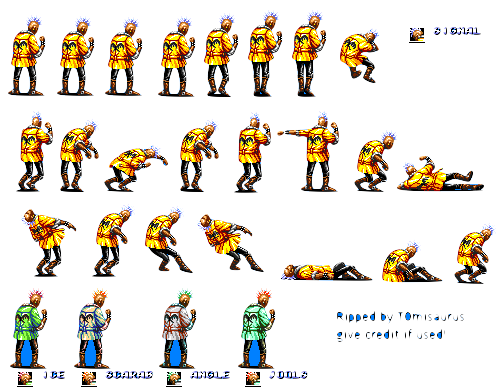
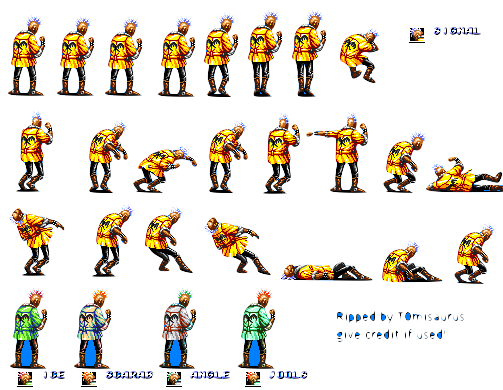
main game

Changed region(s): [[0.1193, 0.2769, 1.0, 0.5231], [0.0, 0.5231, 0.1491, 0.7077], [0.3877, 0.5538, 0.5368, 0.7077]]

diff --git a/street_of_rage/src/main.rs b/street_of_rage/src/main.rs
@@ -21,7 +21,7 @@ fn main() {
 
         .insert_resource(GameInfo {
             player_info: PlayerInfo {
-                life: 3,
+                life: 10,
                 left_orientation: false,
                 position: Vec2::new(0.0, 0.0),
                 action: STAND.clone(),
@@ -63,7 +63,7 @@ const ATTACK_REACH: f32 = 70.0;
 const ENEMY_STEP: f32 = 5.0;
 const PLAYER_STEP: f32 = 10.0;
 const NUMBER_OF_HITS: usize = 10;
-const ENEMY_1_INIT_POSITION: Vec2 = Vec2::new(50.0, -50.0);
+const ENEMY_1_INIT_POSITION: Vec2 = Vec2::new(200.0, -600.0);
 const ENEMY_2_INIT_POSITION: Vec2 = Vec2::new(800.0, -400.0);
 const ENEMY_3_INIT_POSITION: Vec2 = Vec2::new(0.0, -700.0);
 const ENEMY_4_INIT_POSITION: Vec2 = Vec2::new(300.0, -700.0);
@@ -249,15 +249,13 @@ fn keyboard_update(
 fn animate_background(
     time: Res<Time>,
     mut game_info: ResMut<GameInfo>,
-    mut command: Commands,
     mut query: Query<(Entity, &BackgroundAnimation, &mut AnimationTimer, &mut TextureAtlasSprite, &mut Transform,
     )>,
 ) {
-    for (entity, animation, mut timer, mut sprite, mut transform) in &mut query {
+    for (_, _, mut timer, _, mut transform) in &mut query {
         timer.tick(time.delta());
         if timer.just_finished() {
-            info!("Updating background {:?}", game_info.player_info.position.clone().x);
-            transform.translation = Vec3::new(-game_info.player_info.position.x.clone(), 0.0, 1.0);
+            transform.translation = Vec3::new(-(game_info.player_info.position.x.clone() + PLAYER_STEP), 0.0, 1.0);
         }
     }
 }
@@ -515,7 +513,7 @@ fn player_under_attack(game_info: &mut ResMut<GameInfo>) {
         // game_info.enemy_3_info.action == FIGHT ||
         // game_info.enemy_3_info.action == FIGHT ||
         // game_info.enemy_4_info.action == FIGHT
-            && game_info.player_info.action != FIGHT {
+        && game_info.player_info.action != FIGHT {
         game_info.player_info.action = HIT.clone();
     }
 }
@@ -564,14 +562,14 @@ fn setup_enemies(mut commands: &mut Commands, asset_server: &Res<AssetServer>, m
 }
 
 fn setup_background(mut commands: &mut Commands, asset_server: &Res<AssetServer>, mut texture_atlases: &mut ResMut<Assets<TextureAtlas>>) {
-    let mut player_transform = Transform::default();
-    player_transform.scale = Vec3::splat(3.0);
+    let mut transform = Transform::default();
+    transform.scale = Vec3::splat(4.0);
     let handle = asset_server.load("street.png");
     let texture_atlas =
         TextureAtlas::from_grid(handle, Vec2::new(3900.0, 200.0),
                                 1, 1, None, None);
     let atlas_handle = texture_atlases.add(texture_atlas);
-    sprite_spawn(&mut commands, atlas_handle, TextureAtlasSprite::new(0), BackgroundAnimation {}, player_transform);
+    sprite_spawn(&mut commands, atlas_handle, TextureAtlasSprite::new(0), BackgroundAnimation {}, transform);
 }
 
 
@@ -660,7 +658,7 @@ fn setup_window() -> (PluginGroupBuilder, ) {
         DefaultPlugins.set(WindowPlugin {
             primary_window: Some(Window {
                 title: "Street of rage".into(),
-                resolution: (1900.0, 1080.0).into(),
+                resolution: (1900.0, 800.0).into(),
                 ..default()
             }),
             ..default()
@@ -678,20 +676,32 @@ fn create_characters() -> HashMap<&'static str, [CharacterStats; 10]> {
             CharacterStats { action: DOWN_MOVE.clone(), x: 46.0, y: 100.0, column: 6, row: 1, offset: Vec2::new(290.0, 0.0) },
             CharacterStats { action: DOWN.clone(), x: 46.0, y: 100.0, column: 6, row: 1, offset: Vec2::new(290.0, 0.0) },
             CharacterStats { action: FIGHT.clone(), x: 66.5, y: 100.0, column: 6, row: 1, offset: Vec2::new(5.0, 1124.0) },
-            CharacterStats { action: HIT.clone(), x: 65.0, y: 75.0, column: 2, row: 1, offset: Vec2::new(0.0, 560.0) },
-            CharacterStats { action: DEAD.clone(), x: 80.0, y: 75.0, column: 4, row: 1, offset: Vec2::new(140.0, 560.0) },
+            CharacterStats { action: HIT.clone(), x: 55.0, y: 100.0, column: 3, row: 1, offset: Vec2::new(5.0, 1330.0) },
+            CharacterStats { action: DEAD.clone(), x: 85.0, y: 75.0, column: 3, row: 1, offset: Vec2::new(254.0, 1345.0) },
             CharacterStats { action: RUN.clone(), x: 80.0, y: 85.0, column: 4, row: 1, offset: Vec2::new(5.0, 100.0) },
         ]),
         ("punk.png", [
             CharacterStats { action: STAND.clone(), x: 43.0, y: 100.0, column: 3, row: 1, offset: Vec2::new(155.0, 0.0) },
             CharacterStats { action: MOVE.clone(), x: 43.0, y: 100.0, column: 3, row: 1, offset: Vec2::new(155.0, 0.0) },
             CharacterStats { action: UP_MOVE.clone(), x: 43.0, y: 100.0, column: 3, row: 1, offset: Vec2::new(155.0, 0.0) },
-            CharacterStats { action: UP.clone(),x: 43.0, y: 100.0, column: 3, row: 1, offset: Vec2::new(155.0, 0.0) },
+            CharacterStats { action: UP.clone(), x: 43.0, y: 100.0, column: 3, row: 1, offset: Vec2::new(155.0, 0.0) },
             CharacterStats { action: DOWN_MOVE.clone(), x: 43.0, y: 100.0, column: 3, row: 1, offset: Vec2::new(5.0, 0.0) },
             CharacterStats { action: DOWN.clone(), x: 43.0, y: 100.0, column: 3, row: 1, offset: Vec2::new(155.0, 0.0) },
-            CharacterStats { action: FIGHT.clone(), x: 66.5, y: 100.0, column: 6, row: 1, offset: Vec2::new(5.0, 1124.0) },
-            CharacterStats { action: HIT.clone(), x: 65.0, y: 75.0, column: 2, row: 1, offset: Vec2::new(155.0, 560.0) },
-            CharacterStats { action: DEAD.clone(), x: 80.0, y: 75.0, column: 4, row: 1, offset: Vec2::new(155.0, 560.0) },
+            CharacterStats { action: FIGHT.clone(), x: 65.5, y: 100.0, column: 4, row: 1, offset: Vec2::new(0.0, 105.0) },
+            CharacterStats { action: HIT.clone(), x: 67.5, y: 80.0, column: 4, row: 1, offset: Vec2::new(0.0, 200.0) },
+            CharacterStats { action: DEAD.clone(), x: 95.0, y: 75.0, column: 1, row: 1, offset: Vec2::new(278.0, 232.0) },
+            CharacterStats { action: RUN.clone(), x: 80.0, y: 85.0, column: 4, row: 1, offset: Vec2::new(155.0, 100.0) },
+        ]),
+        ("skin.png", [
+            CharacterStats { action: STAND.clone(), x: 48.0, y: 100.0, column: 3, row: 1, offset: Vec2::new(0.0, 80.0) },
+            CharacterStats { action: MOVE.clone(),  x: 48.0, y: 100.0, column: 3, row: 1, offset: Vec2::new(0.0, 80.0) },
+            CharacterStats { action: UP_MOVE.clone(),  x: 48.0, y: 100.0, column: 3, row: 1, offset: Vec2::new(0.0, 80.0) },
+            CharacterStats { action: UP.clone(),  x: 48.0, y: 100.0, column: 3, row: 1, offset: Vec2::new(0.0, 80.0) },
+            CharacterStats { action: DOWN_MOVE.clone(),  x: 48.0, y: 100.0, column: 3, row: 1, offset: Vec2::new(0.0, 80.0) },
+            CharacterStats { action: DOWN.clone(),  x: 48.0, y: 100.0, column: 3, row: 1, offset: Vec2::new(0.0, 80.0) },
+            CharacterStats { action: FIGHT.clone(), x: 65.5, y: 100.0, column: 4, row: 1, offset: Vec2::new(0.0, 105.0) },
+            CharacterStats { action: HIT.clone(), x: 46.5, y: 80.0, column: 4, row: 1, offset: Vec2::new(5.0, 162.0) },
+            CharacterStats { action: DEAD.clone(), x: 95.0, y: 75.0, column: 1, row: 1, offset: Vec2::new(278.0, 232.0) },
             CharacterStats { action: RUN.clone(), x: 80.0, y: 85.0, column: 4, row: 1, offset: Vec2::new(155.0, 100.0) },
         ]),
     ])
